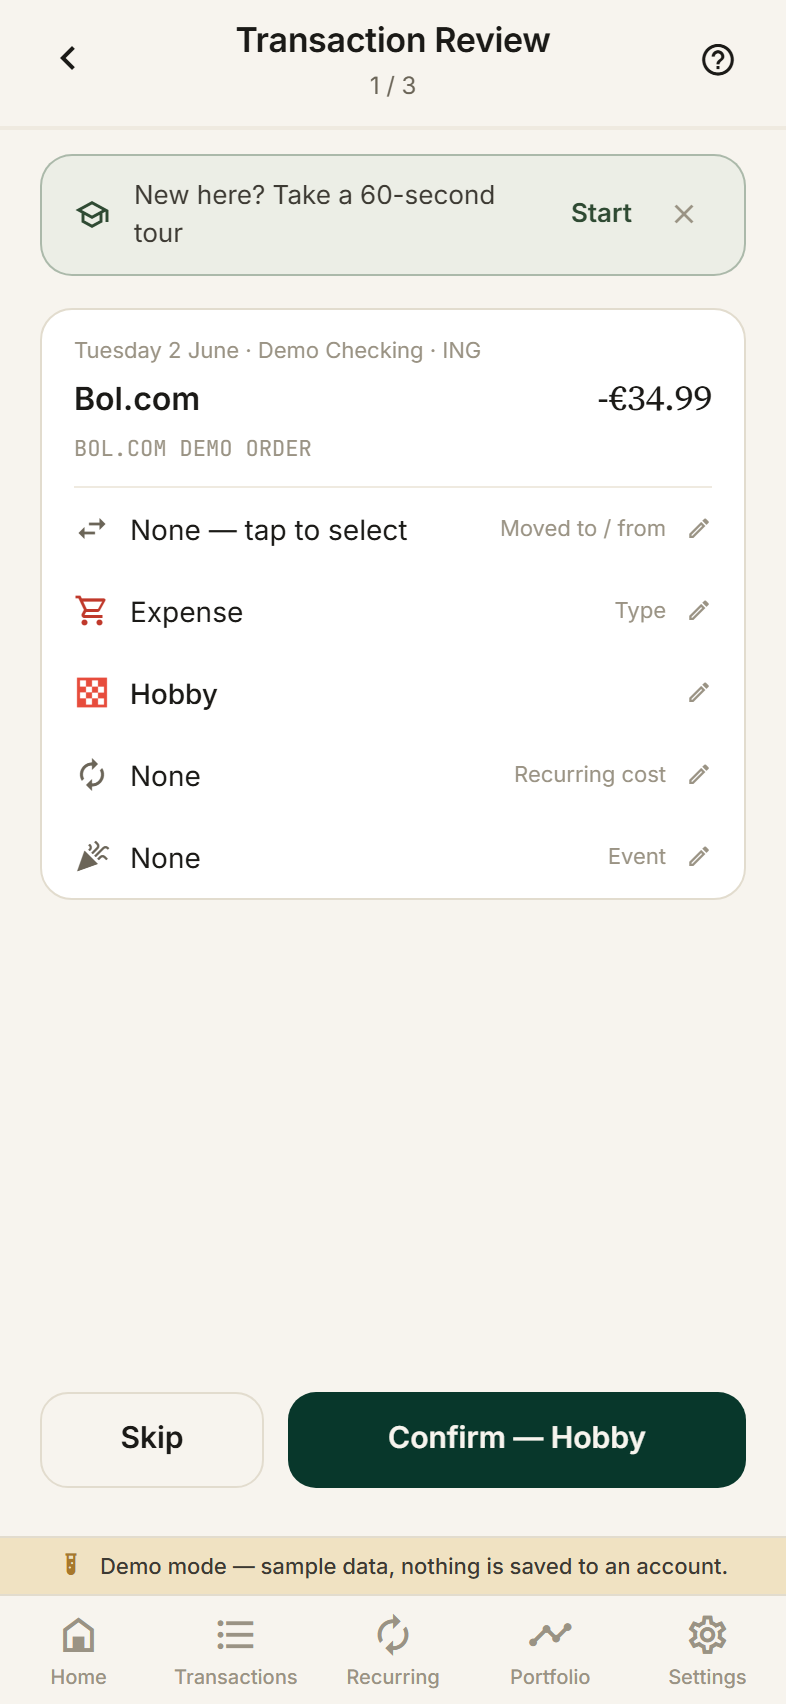
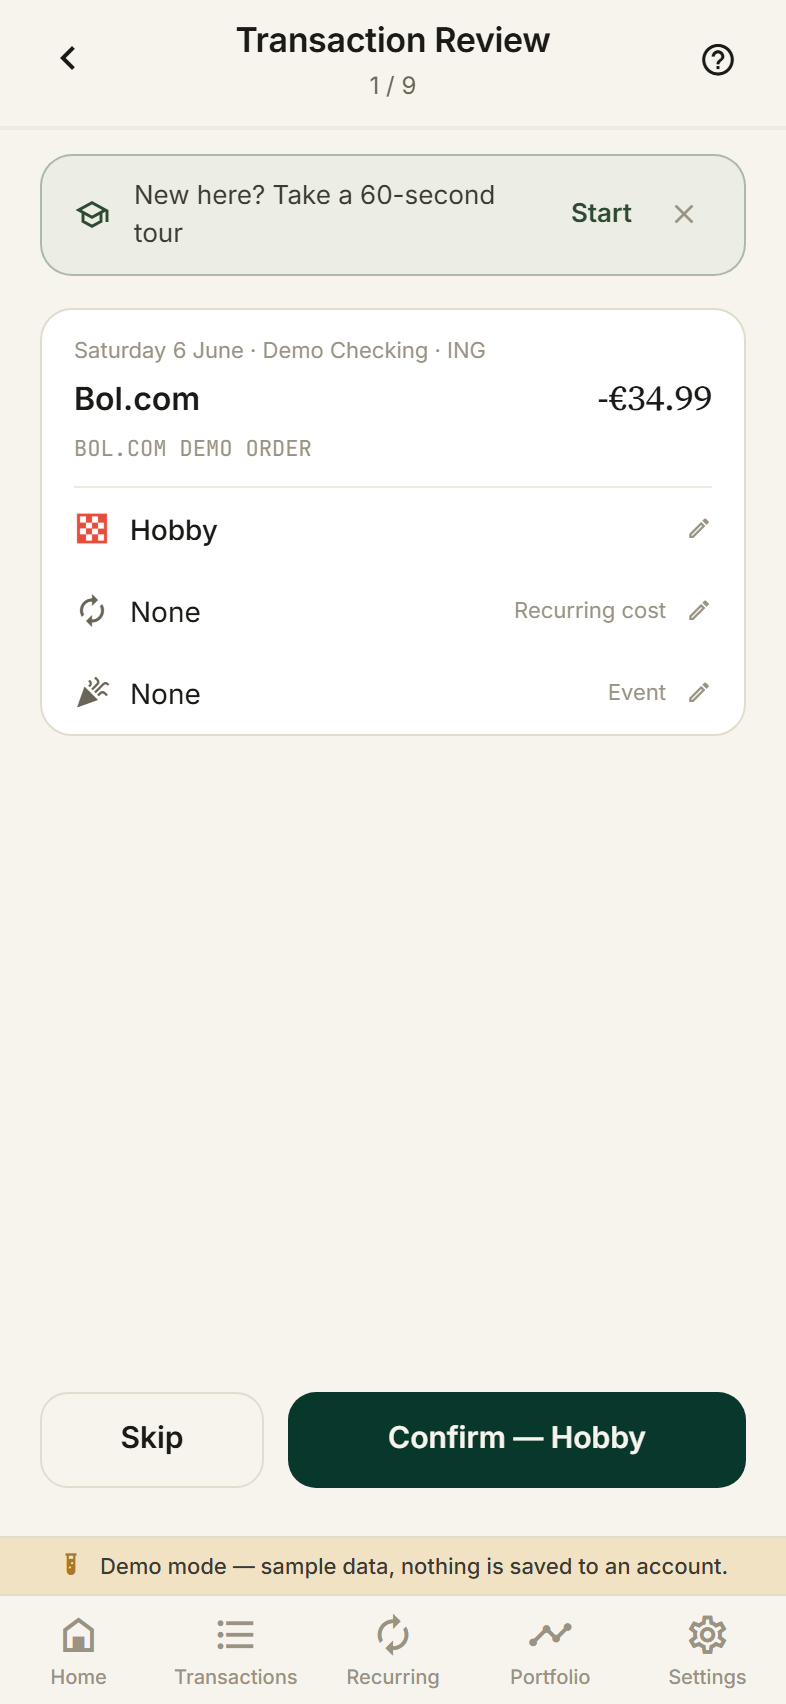
docs(whatsnew): 2.22.0 entries for activity history and account tiers

diff --git a/apps/web/src/features/help/releaseNotes.ts b/apps/web/src/features/help/releaseNotes.ts
@@ -22,7 +22,17 @@ export const WHATS_NEW: WhatsNewEntry[] = [
     date: '2026-07-22',
     items: [
       {
-        en: 'Choosing offline mode now shows you the honest trade first: what you keep (total privacy with zero telemetry, the full app working without internet, PIN or fingerprint lock) and what you give up (bank connections, sync and cloud backup, shared spaces) — before you create a profile.',
+        en: 'The bell now keeps a history: the last 200 actions in your space — who reviewed what, added a transaction, attached an account or created a budget — synced so every member sees the same trail.',
+        nl: 'De bel houdt nu een geschiedenis bij: de laatste 200 acties in je ruimte — wie wat beoordeelde, een transactie toevoegde, een rekening koppelde of een budget maakte — gesynchroniseerd zodat elk lid hetzelfde spoor ziet.',
+        tr: 'Zil artık bir geçmiş tutuyor: alanındaki son 200 eylem — kim neyi inceledi, işlem ekledi, hesap bağladı veya bütçe oluşturdu — senkronize, böylece her üye aynı izi görür.',
+      },
+      {
+        en: 'Accounts now come in three clear kinds: linked (open banking), imported (statement uploads) and manual. Only manual accounts take hand-typed transactions — imported ones are corrected by their next upload instead. Each space creates its own manual accounts right on its Financial accounts screen, and every row says where it came from: created in this space, your account, or shared by a member.',
+        nl: 'Rekeningen zijn er nu in drie duidelijke soorten: gekoppeld (open banking), geïmporteerd (afschrift-uploads) en handmatig. Alleen handmatige rekeningen nemen zelf ingetypte transacties aan — geïmporteerde worden gecorrigeerd door hun volgende upload. Elke ruimte maakt haar eigen handmatige rekeningen direct op het scherm Financiële rekeningen, en elke rij vertelt waar ze vandaan komt: gemaakt in deze ruimte, jouw rekening, of gedeeld door een lid.',
+        tr: 'Hesaplar artık üç net türde: bağlı (açık bankacılık), aktarılmış (ekstre yüklemeleri) ve manuel. Yalnızca manuel hesaplar elle girilen işlem kabul eder — aktarılmışları bir sonraki yükleme düzeltir. Her alan kendi manuel hesaplarını doğrudan Finansal hesaplar ekranında oluşturur ve her satır nereden geldiğini söyler: bu alanda oluşturuldu, senin hesabın veya bir üye tarafından paylaşıldı.',
+      },
+      {
+        en: 'Choosing offline mode now shows you the honest trade on its own screen first: what you keep (total privacy with zero telemetry, the full app working without internet, PIN or fingerprint lock) and what you give up (bank connections, sync and cloud backup, shared spaces) — before you create a profile.',
         nl: 'Wie voor offline modus kiest, ziet nu eerst eerlijk de afweging: wat je behoudt (volledige privacy zonder telemetrie, de volledige app zonder internet, pincode- of vingerafdrukvergrendeling) en wat je opgeeft (bankkoppelingen, synchronisatie en cloudback-up, gedeelde ruimtes) — vóór je een profiel aanmaakt.',
         tr: 'Çevrimdışı modu seçince artık önce dürüst bir değiş tokuş görürsün: neler seninle kalır (telemetrisiz tam gizlilik, internetsiz çalışan uygulamanın tamamı, PIN veya parmak izi kilidi) ve nelerden vazgeçersin (banka bağlantıları, senkronizasyon ve bulut yedeği, paylaşılan alanlar) — profil oluşturmadan önce.',
       },

diff --git a/apps/web/public/guide/index.html b/apps/web/public/guide/index.html
@@ -58,7 +58,8 @@
     <h2>Home is yours</h2>
     <p>Home is a landing zone of blocks: review queue, this period, new transactions, budgets, upcoming costs and more. Reorder or hide blocks with Customize Home at the bottom. The avatar on the top right switches spaces.</p>
     <ul class="tips"><li>The balance band folds out to show every account.</li>
-<li>Portfolio has its own tab at the bottom.</li></ul>
+<li>Portfolio has its own tab at the bottom.</li>
+<li>The bell keeps the space’s history: the last 200 actions with who did what.</li></ul>
     <div class="shots"><figure><img src="shots/01-shell-home--en-light-mobile.png" alt="Home is yours" loading="lazy"></figure>
 <figure><img src="shots/59-overview-home--en-light-mobile.png" alt="Home is yours" loading="lazy"></figure></div>
   </section>
